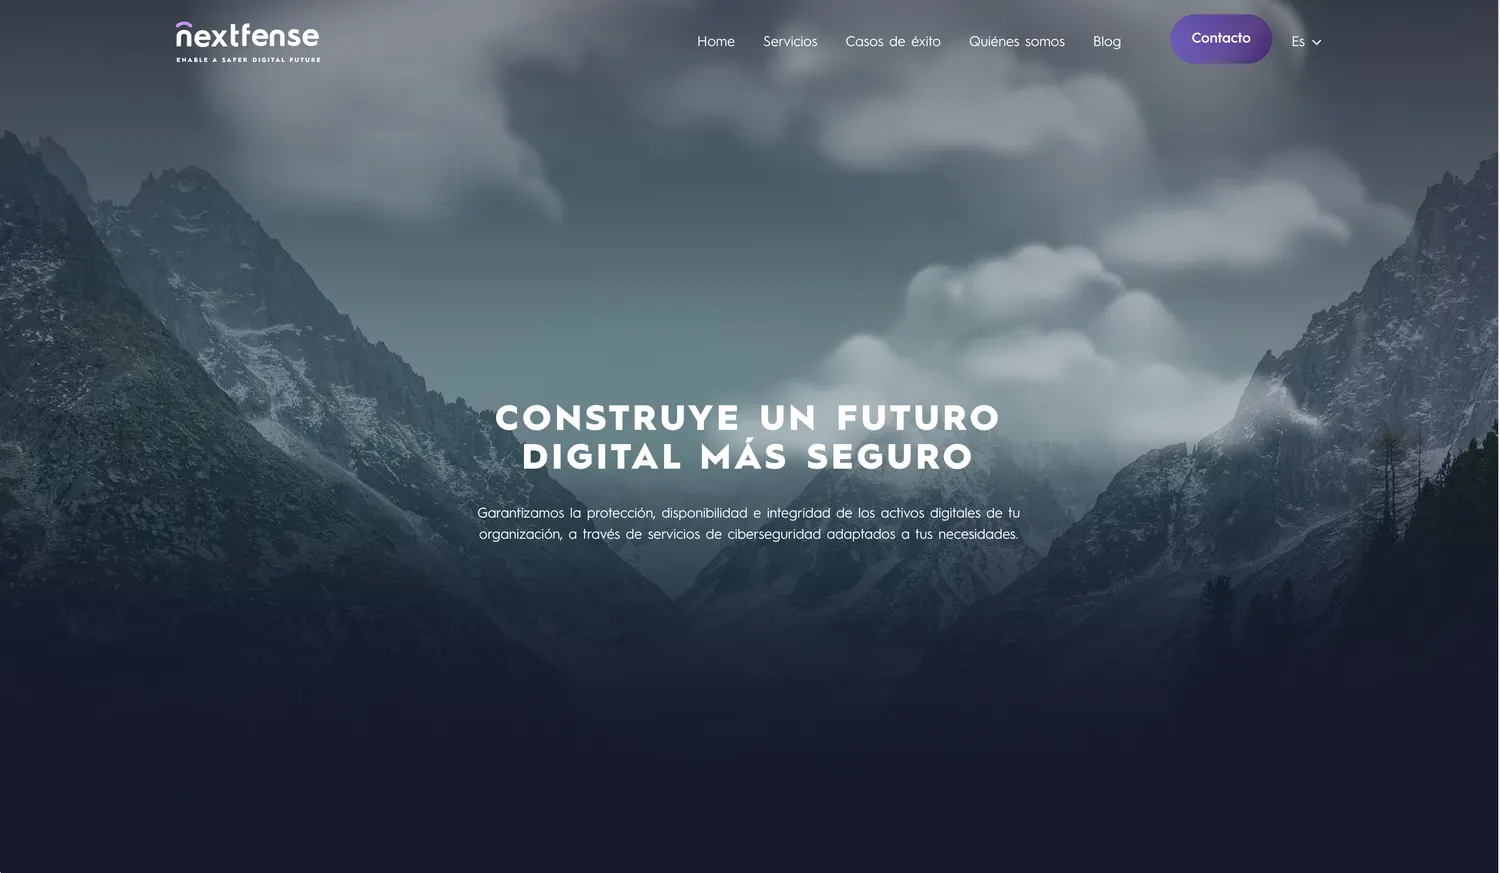
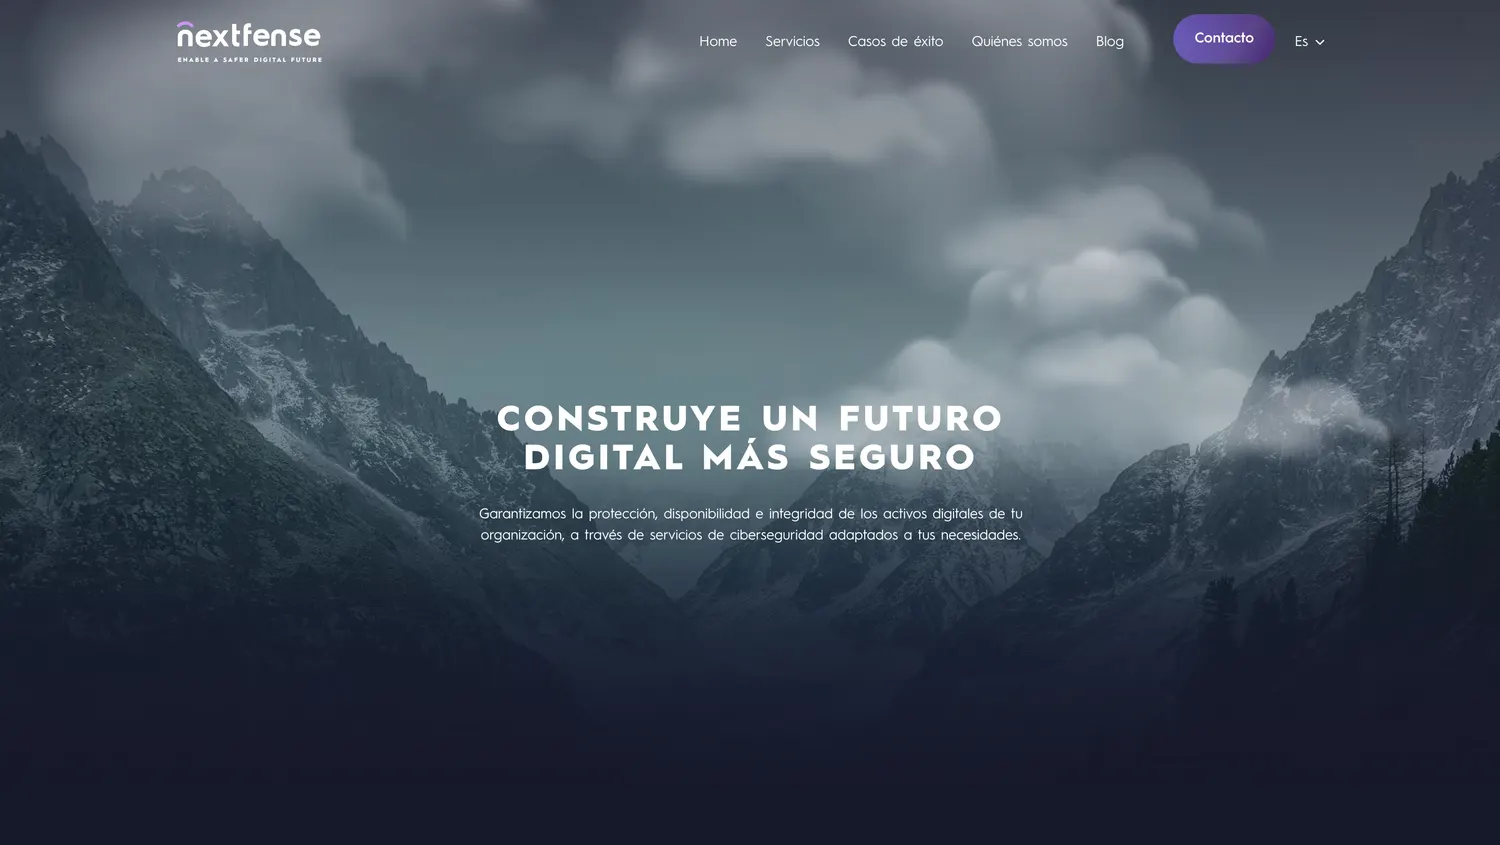
Polish case studies and home: remove before visual, real BIKE/Nextfense images
- Remove the 'before' challenge visual (previous sites were taken down); move specs into that column
- Remove home Selected Work card hover image-scale (was overflowing/breaking images)
- BIKE: add real Courses + 3D-404 shots; Nextfense: new hero image
- Emphasize Webflow Localization (K2BTools 3 langs, Nextfense 2 langs)
- Reorder testimonials (Artem, Carolina, Franco, Max, Eugenia)

diff --git a/src/data/projects.ts b/src/data/projects.ts
@@ -219,7 +219,7 @@ export const projects: Project[] = [
         pre: "A developer-tools company whose site had to feel as sharp as the ",
         ember: "product.",
       },
-      tags: ["Webflow", "Client-First", "GSAP", "Multilingual"],
+      tags: ["Webflow", "Client-First", "GSAP", "Webflow Localization"],
       heroImage: "/assets/k2btools-hero.webp",
       heroImageAlt: "K2BTools — 'Impulsamos el mundo GeneXus' homepage",
       heroBadge: "k2btools.com · home",
@@ -230,11 +230,11 @@ export const projects: Project[] = [
       specs: [
         { key: "role", value: "Front-end build" },
         { key: "stack", value: "Webflow · Client-First · GSAP" },
-        { key: "integration", value: "Webflow CMS · es / en / pt" },
+        { key: "integration", value: "Webflow Localization · es / en / pt" },
       ],
       buildHeading: "Serious motion on a structure that scales to three languages.",
       buildLead:
-        "I built the marketing site in Webflow on Client-First, with GSAP doing the heavy lifting — *scroll animations that read as craft*, reduced-motion aware. The whole thing is componentised and CMS-driven across three locales, so the team ships solution pages, articles and success stories in any language without a developer in the loop.",
+        "I built the marketing site in Webflow on Client-First, with GSAP doing the heavy lifting — *scroll animations that read as craft*, reduced-motion aware. The whole thing runs on Webflow Localization across three languages (Spanish, English, Portuguese), componentised and CMS-driven, so the team ships solution pages, articles and success stories in any locale without a developer in the loop.",
       shots: [
         {
           n: "01",
@@ -254,10 +254,10 @@ export const projects: Project[] = [
         },
         {
           n: "03",
-          label: "03 — Trilingual CMS",
-          lead: "Articles & success stories the team ships in any language",
-          body: " — Spanish, English and Portuguese from one CMS, no developer in the loop.",
-          placeholder: "Multilingual — drop screenshot",
+          label: "03 — Localization",
+          lead: "Three languages on Webflow Localization",
+          body: " — Spanish, English and Portuguese from one CMS, articles and success stories the team ships itself.",
+          placeholder: "Localization — drop screenshot",
           image: "/assets/k2btools-shot3.webp",
         },
       ],
@@ -322,18 +322,18 @@ export const projects: Project[] = [
         },
         {
           n: "02",
-          label: "02 — The method",
-          lead: "“Una escuela de inglés distinta”, in motion",
-          body: " — the bike metaphor carried through illustration and scroll-tied reveals.",
-          placeholder: "Method — drop screenshot",
+          label: "02 — Courses",
+          lead: "Roadmap, Talk and Career — structured A1 to C2",
+          body: " — CMS-driven, so the team adds and edits courses without touching code.",
+          placeholder: "Courses — drop screenshot",
           image: "/assets/bike-shot2.webp",
         },
         {
           n: "03",
-          label: "03 — Our story",
-          lead: "Community and brand, scroll-paced",
-          body: " — “Nuestra historia” turns the about page into part of the ride.",
-          placeholder: "Story — drop screenshot",
+          label: "03 — 404",
+          lead: "An interactive 3D bicycle for the lost",
+          body: " — a Spline scene that turns a dead end into a piece of the brand.",
+          placeholder: "404 / 3D bike — drop screenshot",
           image: "/assets/bike-shot3.webp",
         },
       ],
@@ -447,7 +447,7 @@ export const projects: Project[] = [
         pre: "A security platform is only as trusted as it looks. This one had to read as ",
         ember: "serious.",
       },
-      tags: ["Webflow", "GSAP", "Illustrator", "Multilingual"],
+      tags: ["Webflow", "GSAP", "Illustrator", "Webflow Localization"],
       heroImage: "/assets/nextfense-hero.webp",
       heroImageAlt: "Nextfense — 'Construye un futuro digital más seguro' hero",
       heroBadge: "nextfense.com · home",
@@ -458,11 +458,11 @@ export const projects: Project[] = [
       specs: [
         { key: "role", value: "Front-end build & custom illustration" },
         { key: "stack", value: "Webflow · GSAP · Illustrator" },
-        { key: "integration", value: "Webflow CMS · es / en" },
+        { key: "integration", value: "Webflow Localization · es / en" },
       ],
       buildHeading: "A platform site that earns the word “secure”.",
       buildLead:
-        "I built Nextfense in Webflow with a *six-pillar approach laid out around custom Illustrator artwork* — abstract security iconography that gives an intangible service something to look at. The whole thing is bilingual (es/en) on Webflow locales, CMS-driven for case studies and blog, with GSAP carrying restrained, on-brand motion.",
+        "I built Nextfense in Webflow with a *six-pillar approach laid out around custom Illustrator artwork* — abstract security iconography that gives an intangible service something to look at. The whole thing is bilingual (es/en) on Webflow Localization, CMS-driven for case studies and blog, with GSAP carrying restrained, on-brand motion.",
       shots: [
         {
           n: "01",
@@ -484,7 +484,7 @@ export const projects: Project[] = [
           n: "03",
           label: "03 — Services",
           lead: "Offensive security & pentesting, detailed and bilingual",
-          body: " — es/en on Webflow locales, so the team ships new work without a developer.",
+          body: " — es/en on Webflow Localization, so the team ships new work without a developer.",
           placeholder: "Services — drop screenshot",
           image: "/assets/nextfense-shot3.webp",
         },

diff --git a/src/data/testimonials.ts b/src/data/testimonials.ts
@@ -16,6 +16,14 @@ export interface Testimonial {
 
 export const testimonials: Testimonial[] = [
   {
+    name: "Artem Khomenko",
+    role: "CTO",
+    company: "Enkonix",
+    avatar: "/assets/avatars/artem.webp",
+    quote:
+      "A strong developer with sharp attention to detail and the ability to ship highly custom solutions *within the constraints* of the platform. Highly recommend.",
+  },
+  {
     name: "Carolina Freese",
     role: "Founder",
     company: "Home Organizers Long Island",
@@ -24,12 +32,12 @@ export const testimonials: Testimonial[] = [
       "Our site has a complex custom-code setup, and Lucas understood it *without needing much guidance*. New pages, detailed layouts, advanced flows — always clear and professional. Highly recommended.",
   },
   {
-    name: "Eugenia Gallo",
-    role: "Business Development Manager",
-    company: "Seilas Ship Supplies",
-    avatar: "/assets/avatars/eugenia.webp",
+    name: "Franco Caputo",
+    role: "CEO",
+    company: "WonderUp",
+    avatar: "/assets/avatars/francocaputo.webp",
     quote:
-      "Working with Lucas has been an absolute pleasure — his Webflow expertise is *unparalleled*. Proactive with solutions, transparent, and a joy to work with. Highly recommended.",
+      "Worked with Lucas on multiple projects and would happily do a thousand more. Detail-oriented, tech-savvy, and an *incredible human* — above and beyond every time.",
   },
   {
     name: "Max Sher",
@@ -40,19 +48,11 @@ export const testimonials: Testimonial[] = [
       "Talented Webflow developer who *got us out of a tough situation* in a short amount of time. Highly recommend and will hire again. Great to work with as well!",
   },
   {
-    name: "Artem Khomenko",
-    role: "CTO",
-    company: "Enkonix",
-    avatar: "/assets/avatars/artem.webp",
+    name: "Eugenia Gallo",
+    role: "Business Development Manager",
+    company: "Seilas Ship Supplies",
+    avatar: "/assets/avatars/eugenia.webp",
     quote:
-      "A strong developer with sharp attention to detail and the ability to ship highly custom solutions *within the constraints* of the platform. Highly recommend.",
-  },
-  {
-    name: "Franco Caputo",
-    role: "CEO",
-    company: "WonderUp",
-    avatar: "/assets/avatars/francocaputo.webp",
-    quote:
-      "Worked with Lucas on multiple projects and would happily do a thousand more. Detail-oriented, tech-savvy, and an *incredible human* — above and beyond every time.",
+      "Working with Lucas has been an absolute pleasure — his Webflow expertise is *unparalleled*. Proactive with solutions, transparent, and a joy to work with. Highly recommended.",
   },
 ];

diff --git a/src/components/case-study/CaseStudyView.tsx b/src/components/case-study/CaseStudyView.tsx
@@ -41,19 +41,15 @@ export function CaseStudyView({
             <p className="cs-challenge__p" data-reveal data-reveal-delay="1">
               <RichText text={cs.challengeBody} />
             </p>
-            <div className="cs-spec" data-reveal data-reveal-delay="2">
-              {cs.specs.map((spec, i) => (
-                <div className="cs-spec__row" key={spec.key}>
-                  <span className="cs-spec__n">{String(i + 1).padStart(2, "0")}</span>
-                  <span className="cs-spec__k">{t(`specLabels.${spec.key}`)}</span>
-                  <span className="cs-spec__v">{spec.value}</span>
-                </div>
-              ))}
-            </div>
           </div>
-          <div className="cs-challenge__visual" data-reveal data-reveal-delay="1">
-            <span className="cs-challenge__vcap">{cs.challengeVisualCaption}</span>
-            <ImageFill placeholder="Drop a 'before' screenshot" sizes="(max-width: 900px) 100vw, 45vw" />
+          <div className="cs-spec" data-reveal data-reveal-delay="2">
+            {cs.specs.map((spec, i) => (
+              <div className="cs-spec__row" key={spec.key}>
+                <span className="cs-spec__n">{String(i + 1).padStart(2, "0")}</span>
+                <span className="cs-spec__k">{t(`specLabels.${spec.key}`)}</span>
+                <span className="cs-spec__v">{spec.value}</span>
+              </div>
+            ))}
           </div>
         </div>
       </RevealScope>

diff --git a/src/styles/globals.css b/src/styles/globals.css
@@ -1498,10 +1498,6 @@
     width: 100%;
     height: 100%;
     object-fit: cover;
-    transition: transform var(--dur-slow) var(--ease-out);
-  }
-  .wcard:hover .wcard__media img {
-    transform: scale(1.045);
   }
   .wcard__num {
     position: absolute;
@@ -3023,7 +3019,6 @@
   .cs-spec {
     display: flex;
     flex-direction: column;
-    margin-top: 10px;
     border-top: 1px solid var(--hairline);
   }
   .cs-spec__row {